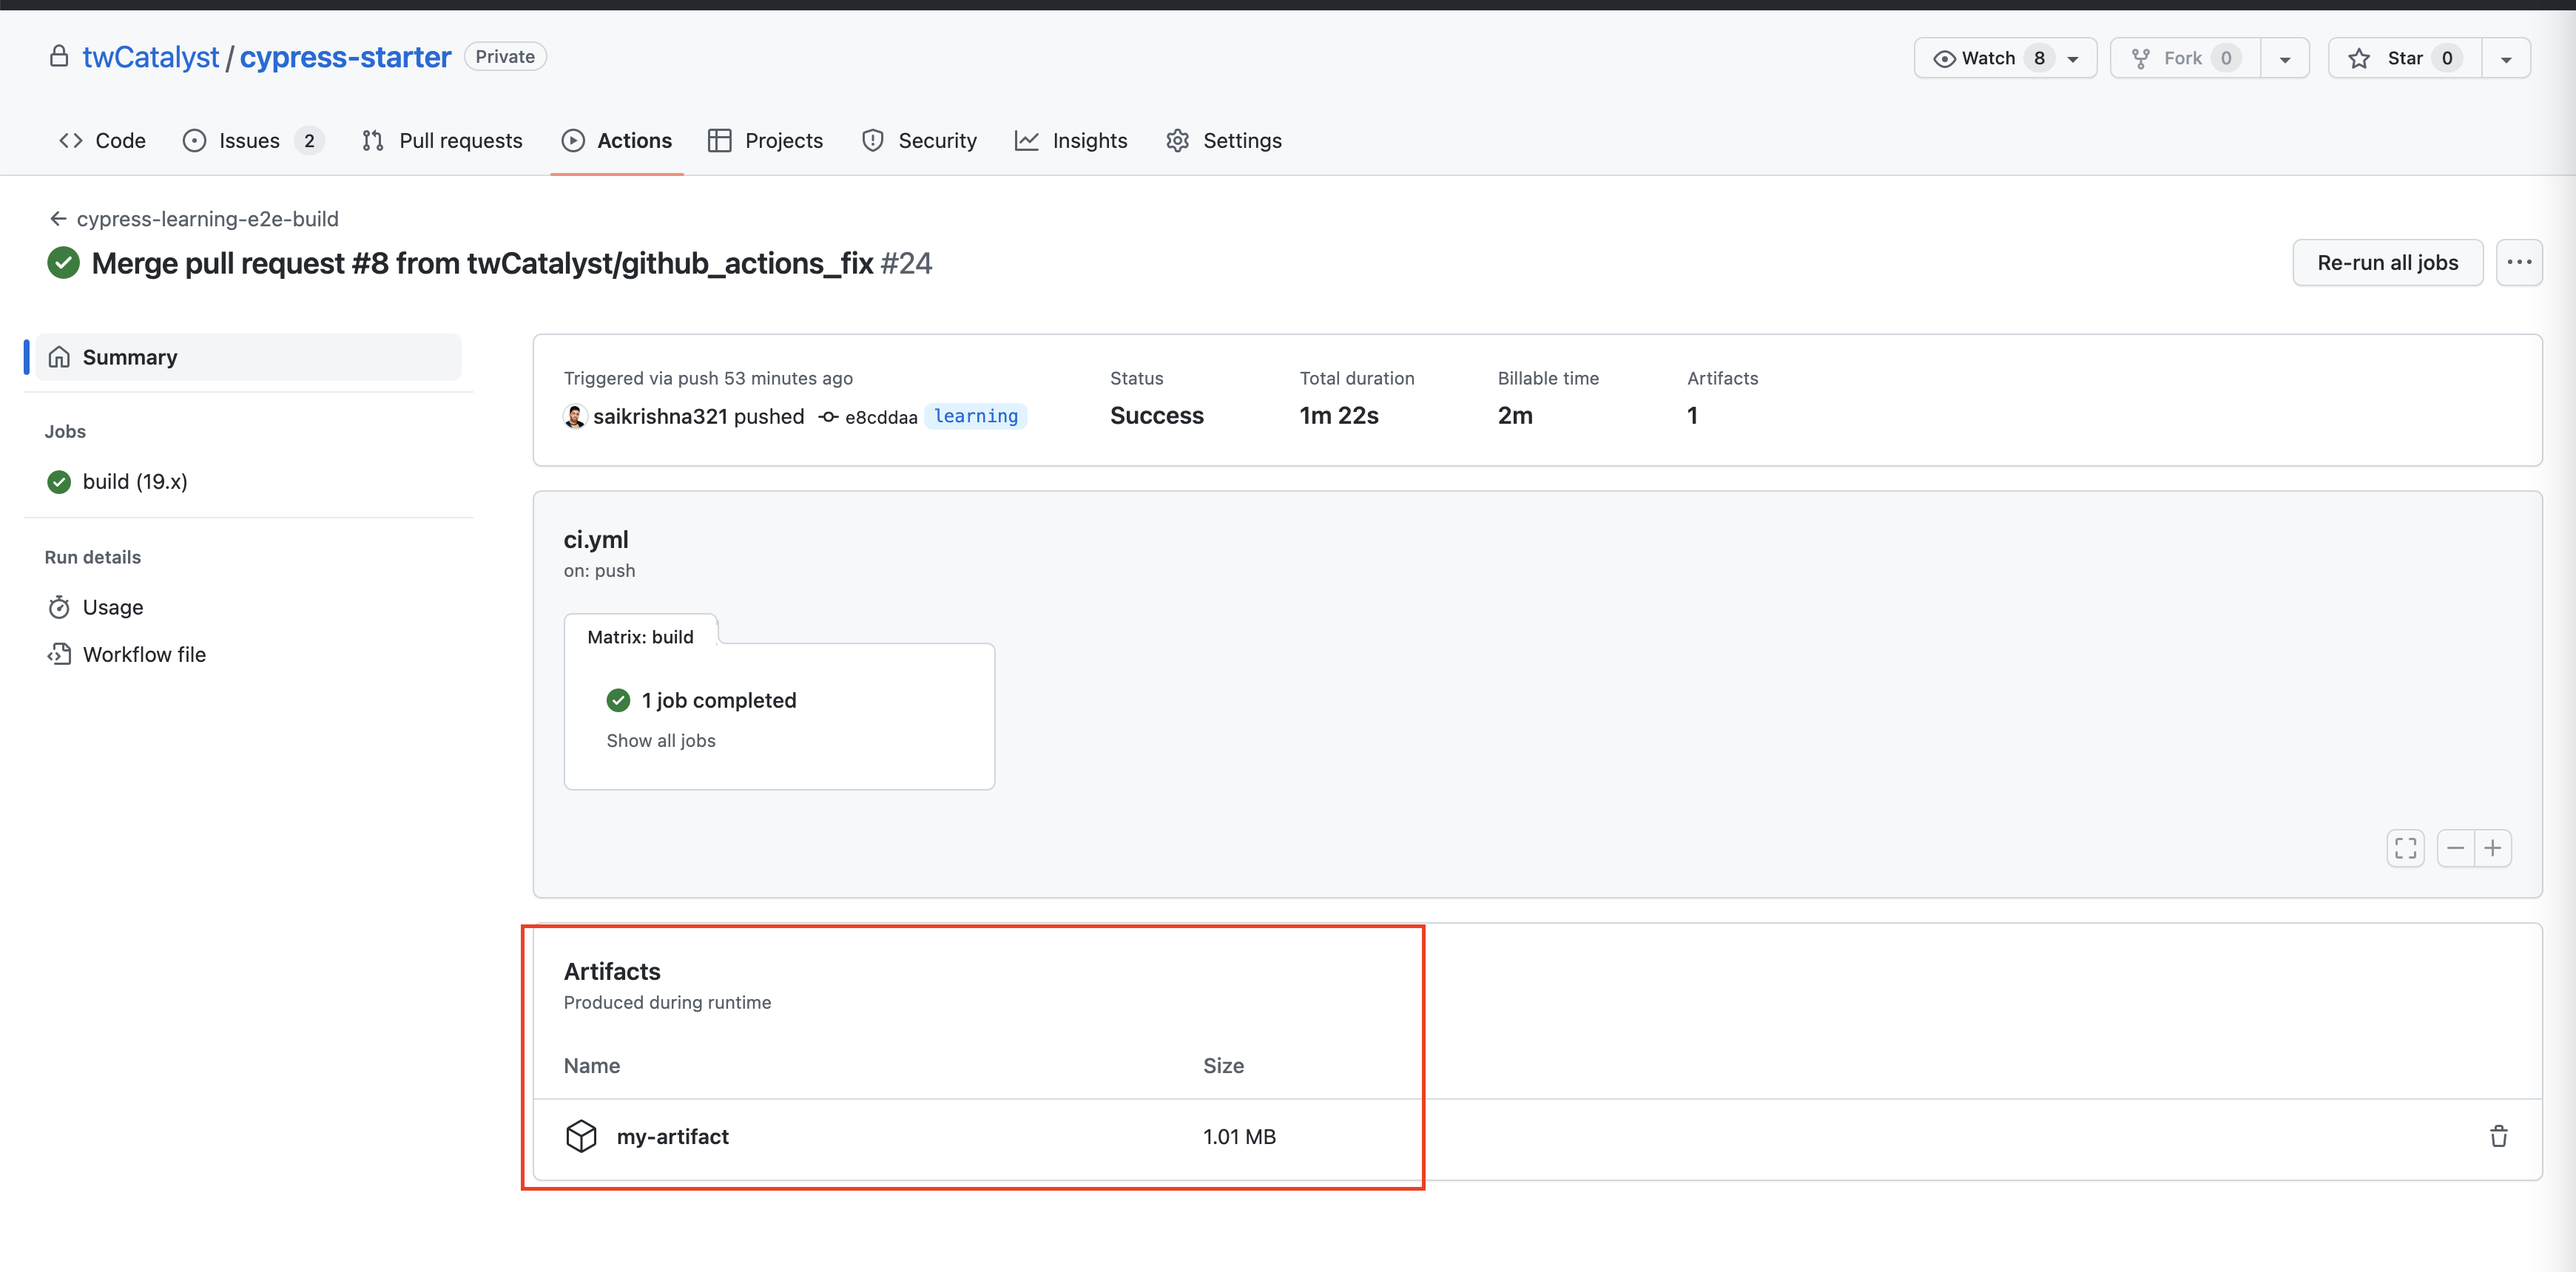
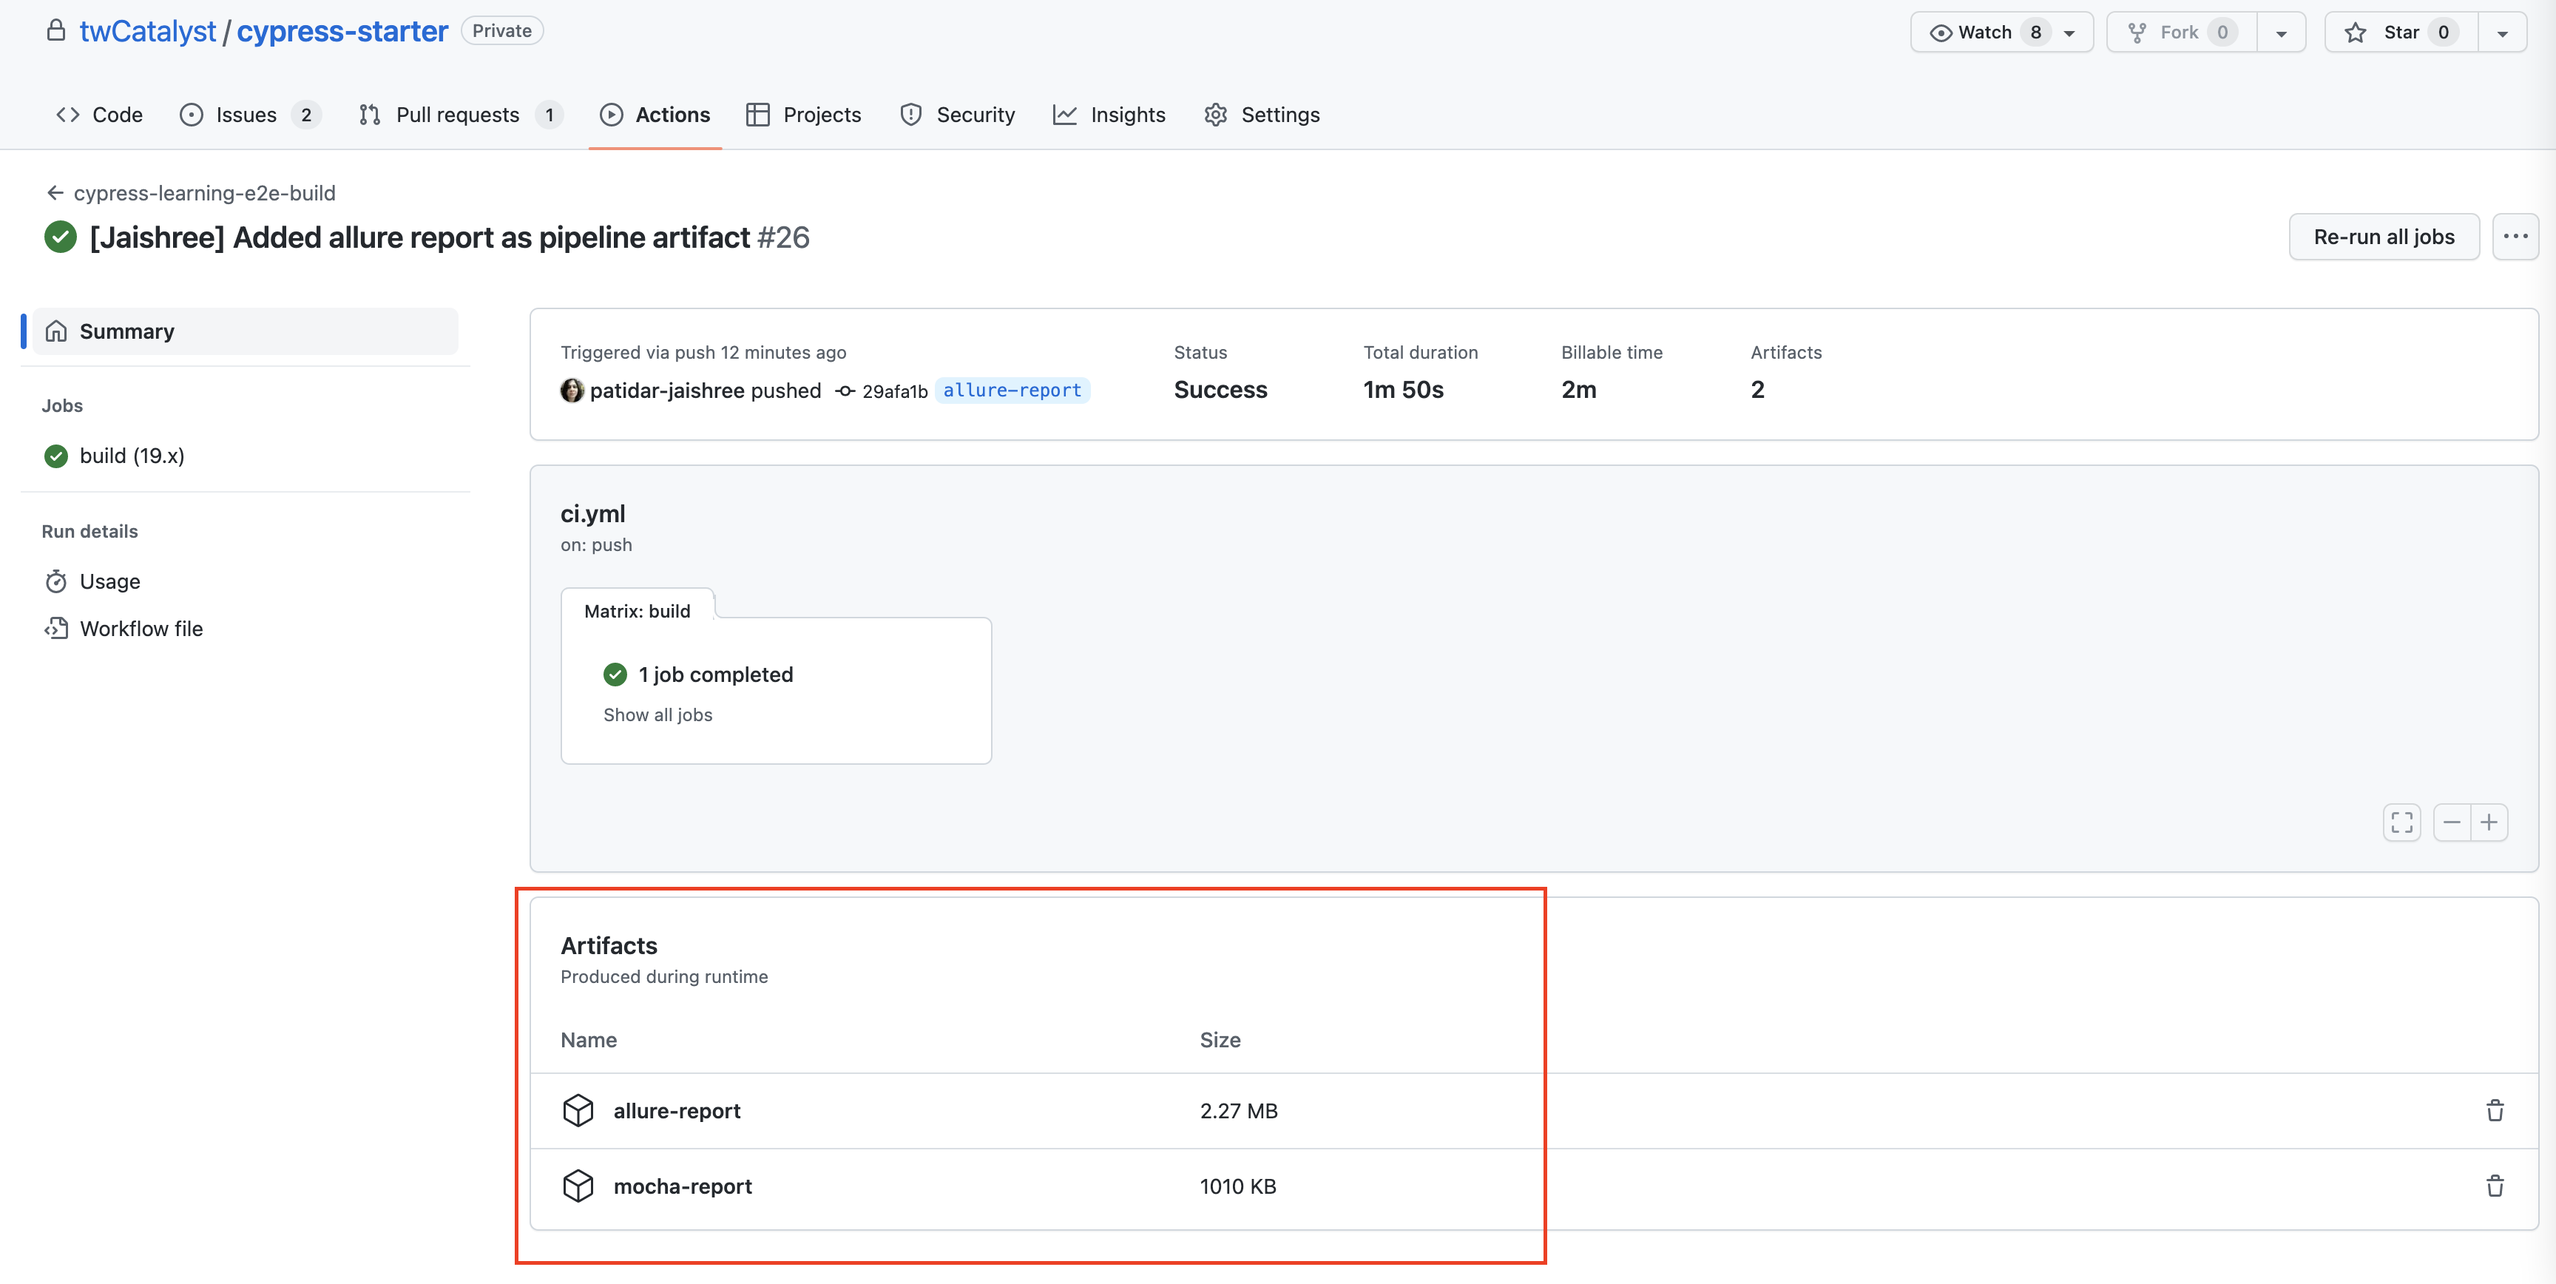
[Jaishree] added allure report details in README

diff --git a/README.md b/README.md
@@ -4,6 +4,8 @@
 2. [Cucumber Integration](#cucumber-integration)
 3. [Tagging tests](#tagging-tests)
 4. [Reporting](#reporting)
+   - [Mochaawesome Report](#added-support-for-mochaawesome-reports-with-embedded-screenshots--videos-in-case-of-failure)
+   - [Allure Report](#added-support-for-allure-reports)
 5. [CI Integration](#ci-integration)
    - [GitHub Actions](#github-actions)
 4. Misc
@@ -54,6 +56,17 @@ npx cypress run --env tags="not @Regression"
 ![Failure Report Page 1](README_images/FailureReport_Image1.png?raw=true "Failure Report Page 1")
 ![Failure Report Page 2](README_images/FailureReport_Image2.png?raw=true "Failure Report Page 2")
 
+### Added support for allure reports
+As opening allure reports needs a server, you need to open it using allure commandline (Go to your project root to run allure open command)
+In local, execution the reports will be generated in allure-report folder at root level. To open it, run allure open command.
+```
+npx allure open allure-report
+```
+In pipeline, allure-report artifact will be pusblished. To open it, download and extract the zip and run allure open command.
+```
+npx allure open '/Users/jaishreepatidar/Downloads/allure-report'
+```
+
 # CI Integration
 
 ## GitHub Actions
@@ -62,7 +75,7 @@ npx cypress run --env tags="not @Regression"
 Created pipeline in github actions
 - Running eslint in pipeline
 - To execute cypress test
-- Publish report as artifacts
+- Publish report as artifacts (both Mochaawesome & Allure report)
 
 ![Report Artifact](README_images/GitHub_Actions_Artifact.png?raw=true "Report Artifact")
 
